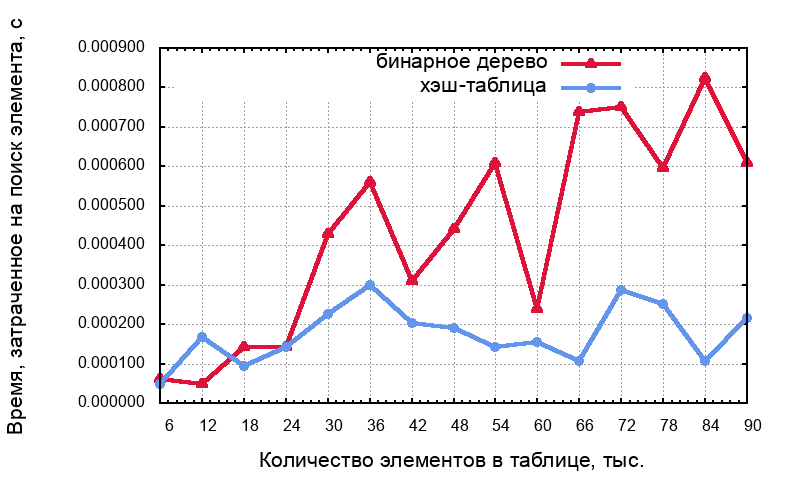
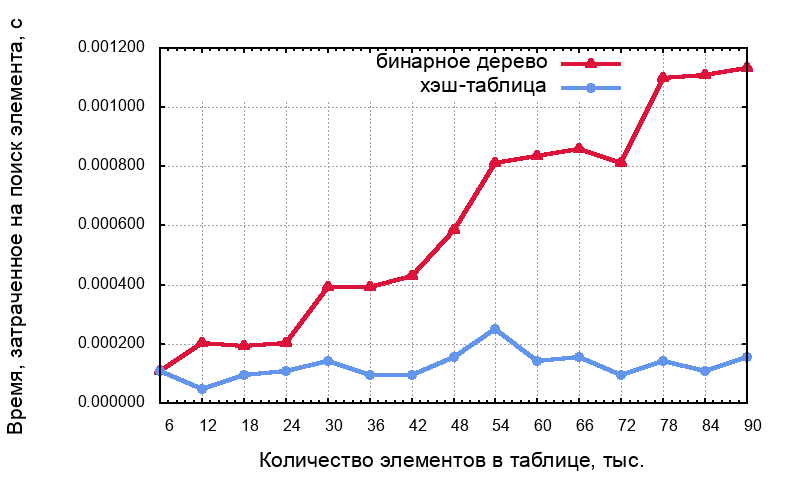
second changes

diff --git a/exp6/main.c b/exp6/main.c
@@ -47,9 +47,9 @@ int main() {
 
   struct listnode *hashtab1[NUMBER_OF_WORDS];
   struct listnode *hashtab2[NUMBER_OF_WORDS];
-  double lookupTimer = 0, lookupTemp = 0;
-  int collision = 0;
-  int switcher = 0;
+  double lookupTimer1 = 0, lookupTemp1 = 0, lookupTimer2 = 0, lookupTemp2 = 0;
+  int collision1 = 0, collision2 = 0;
+  int switcher1 = 0, switcher2 = 1;
   hashtab_init(hashtab1);
   hashtab_init(hashtab2);
 
@@ -59,38 +59,29 @@ int main() {
   FILE *hashtab2Kol = fopen("hashtab2Kol.dat", "w");
 
   for (i = 1; i <= NUMBER_OF_WORDS; ++i) {
-    hashtab_add(hashtab1, words[i], i, switcher, &collision);
+    hashtab_add(hashtab1, words[i], i, switcher1, &collision1);
+    hashtab_add(hashtab2, words[i], i, switcher2, &collision2);
     if (i % 300 == 0) {
       char *searchKey = words[getrand(0, i)];
-      lookupTimer = wtime();
-      struct listnode *hashNode = hashtab_lookup(hashtab1, searchKey, switcher);
-      lookupTemp += wtime() - lookupTimer;
+      lookupTimer1 = wtime();
+      struct listnode *hashNode1 = hashtab_lookup(hashtab1, searchKey, switcher1);
+      lookupTemp1 += wtime() - lookupTimer1;
+
+      lookupTimer2 = wtime();
+      struct listnode *hashNode2 = hashtab_lookup(hashtab2, searchKey, switcher2);
+      lookupTemp2 += wtime() - lookupTimer2;
     }
     if (i % 6000 == 0) {
-      fprintf(hashtab1Lookup, "%d %f\n", i / 1000, lookupTemp * 50);
-      fprintf(hashtab1Kol, "%d %d\n", i / 1000, collision);
-      lookupTemp = 0;
+      fprintf(hashtab1Lookup, "%d %f\n", i / 1000, lookupTemp1 * 50);
+      fprintf(hashtab1Kol, "%d %d\n", i / 1000, collision1);
+      lookupTemp1 = 0;
+
+      fprintf(hashtab2Lookup, "%d %f\n", i / 1000, lookupTemp2 * 50);
+      fprintf(hashtab2Kol, "%d %d\n", i / 1000, collision2);
+      lookupTemp2 = 0;
     }
   }
 
-  lookupTemp = 0;
-  collision = 0;
-  switcher = 1;
-
-  for (i = 1; i <= NUMBER_OF_WORDS; ++i) {
-    hashtab_add(hashtab2, words[i], i, switcher, &collision);
-    if (i % 300 == 0) {
-      char *searchKey = words[getrand(0, i)];
-      lookupTimer = wtime();
-      struct listnode *hashNode = hashtab_lookup(hashtab2, searchKey, switcher);
-      lookupTemp += wtime() - lookupTimer;
-    }
-    if (i % 6000 == 0) {
-      fprintf(hashtab2Lookup, "%d %f\n", i / 1000, lookupTemp * 50);
-      fprintf(hashtab2Kol, "%d %d\n", i / 1000, collision);
-      lookupTemp = 0;
-    }
-  }
 
   fclose(hashtab1Lookup);
   fclose(hashtab2Lookup);

diff --git a/exp1/main.c b/exp1/main.c
@@ -48,7 +48,7 @@ int main() {
 
   struct bstree *tree = bstree_create(words[0], 0);
   struct listnode *hashtab[NUMBER_OF_WORDS];
-  double lookupTimer = 0, lookupTemp = 0;
+  double lookupTimer1 = 0, lookupTemp1 = 0, lookupTimer2 = 0, lookupTemp2 = 0;
   hashtab_init(hashtab);
 
   FILE *bstreeLookup = fopen("bstreeLookup.dat", "w");
@@ -57,31 +57,21 @@ int main() {
 
   for (i = 1; i <= NUMBER_OF_WORDS; ++i) {
     bstree_add(tree, words[i], i);
-    if (i % 300 == 0) {
-      char *searchKey = words[getrand(0, i)];
-      lookupTimer = wtime();
-      struct bstree *treeNode = bstree_lookup(tree, searchKey);
-      lookupTemp += wtime() - lookupTimer;
-    }
-    if (i % 6000 == 0) {
-      fprintf(bstreeLookup, "%d %f\n", i / 1000, lookupTemp * 50);
-      lookupTemp = 0;
-    }
-  }
-
-  lookupTemp = 0;
-
-  for (i = 1; i <= NUMBER_OF_WORDS; ++i) {
     hashtab_add(hashtab, words[i], i);
     if (i % 300 == 0) {
       char *searchKey = words[getrand(0, i)];
-      lookupTimer = wtime();
+      lookupTimer1 = wtime();
+      struct bstree *treeNode = bstree_lookup(tree, searchKey);
+      lookupTemp1 += wtime() - lookupTimer1;
+      lookupTimer2 = wtime();
       struct listnode *hashNode = hashtab_lookup(hashtab, searchKey);
-      lookupTemp += wtime() - lookupTimer;
+      lookupTemp2 += wtime() - lookupTimer2;
     }
     if (i % 6000 == 0) {
-      fprintf(hashtabLookup, "%d %f\n", i / 1000, lookupTemp * 50);
-      lookupTemp = 0;
+      fprintf(bstreeLookup, "%d %f\n", i / 1000, lookupTemp1 * 50);
+      lookupTemp1 = 0;
+      fprintf(hashtabLookup, "%d %f\n", i / 1000, lookupTemp2 * 50);
+      lookupTemp2 = 0;
     }
   }
 
